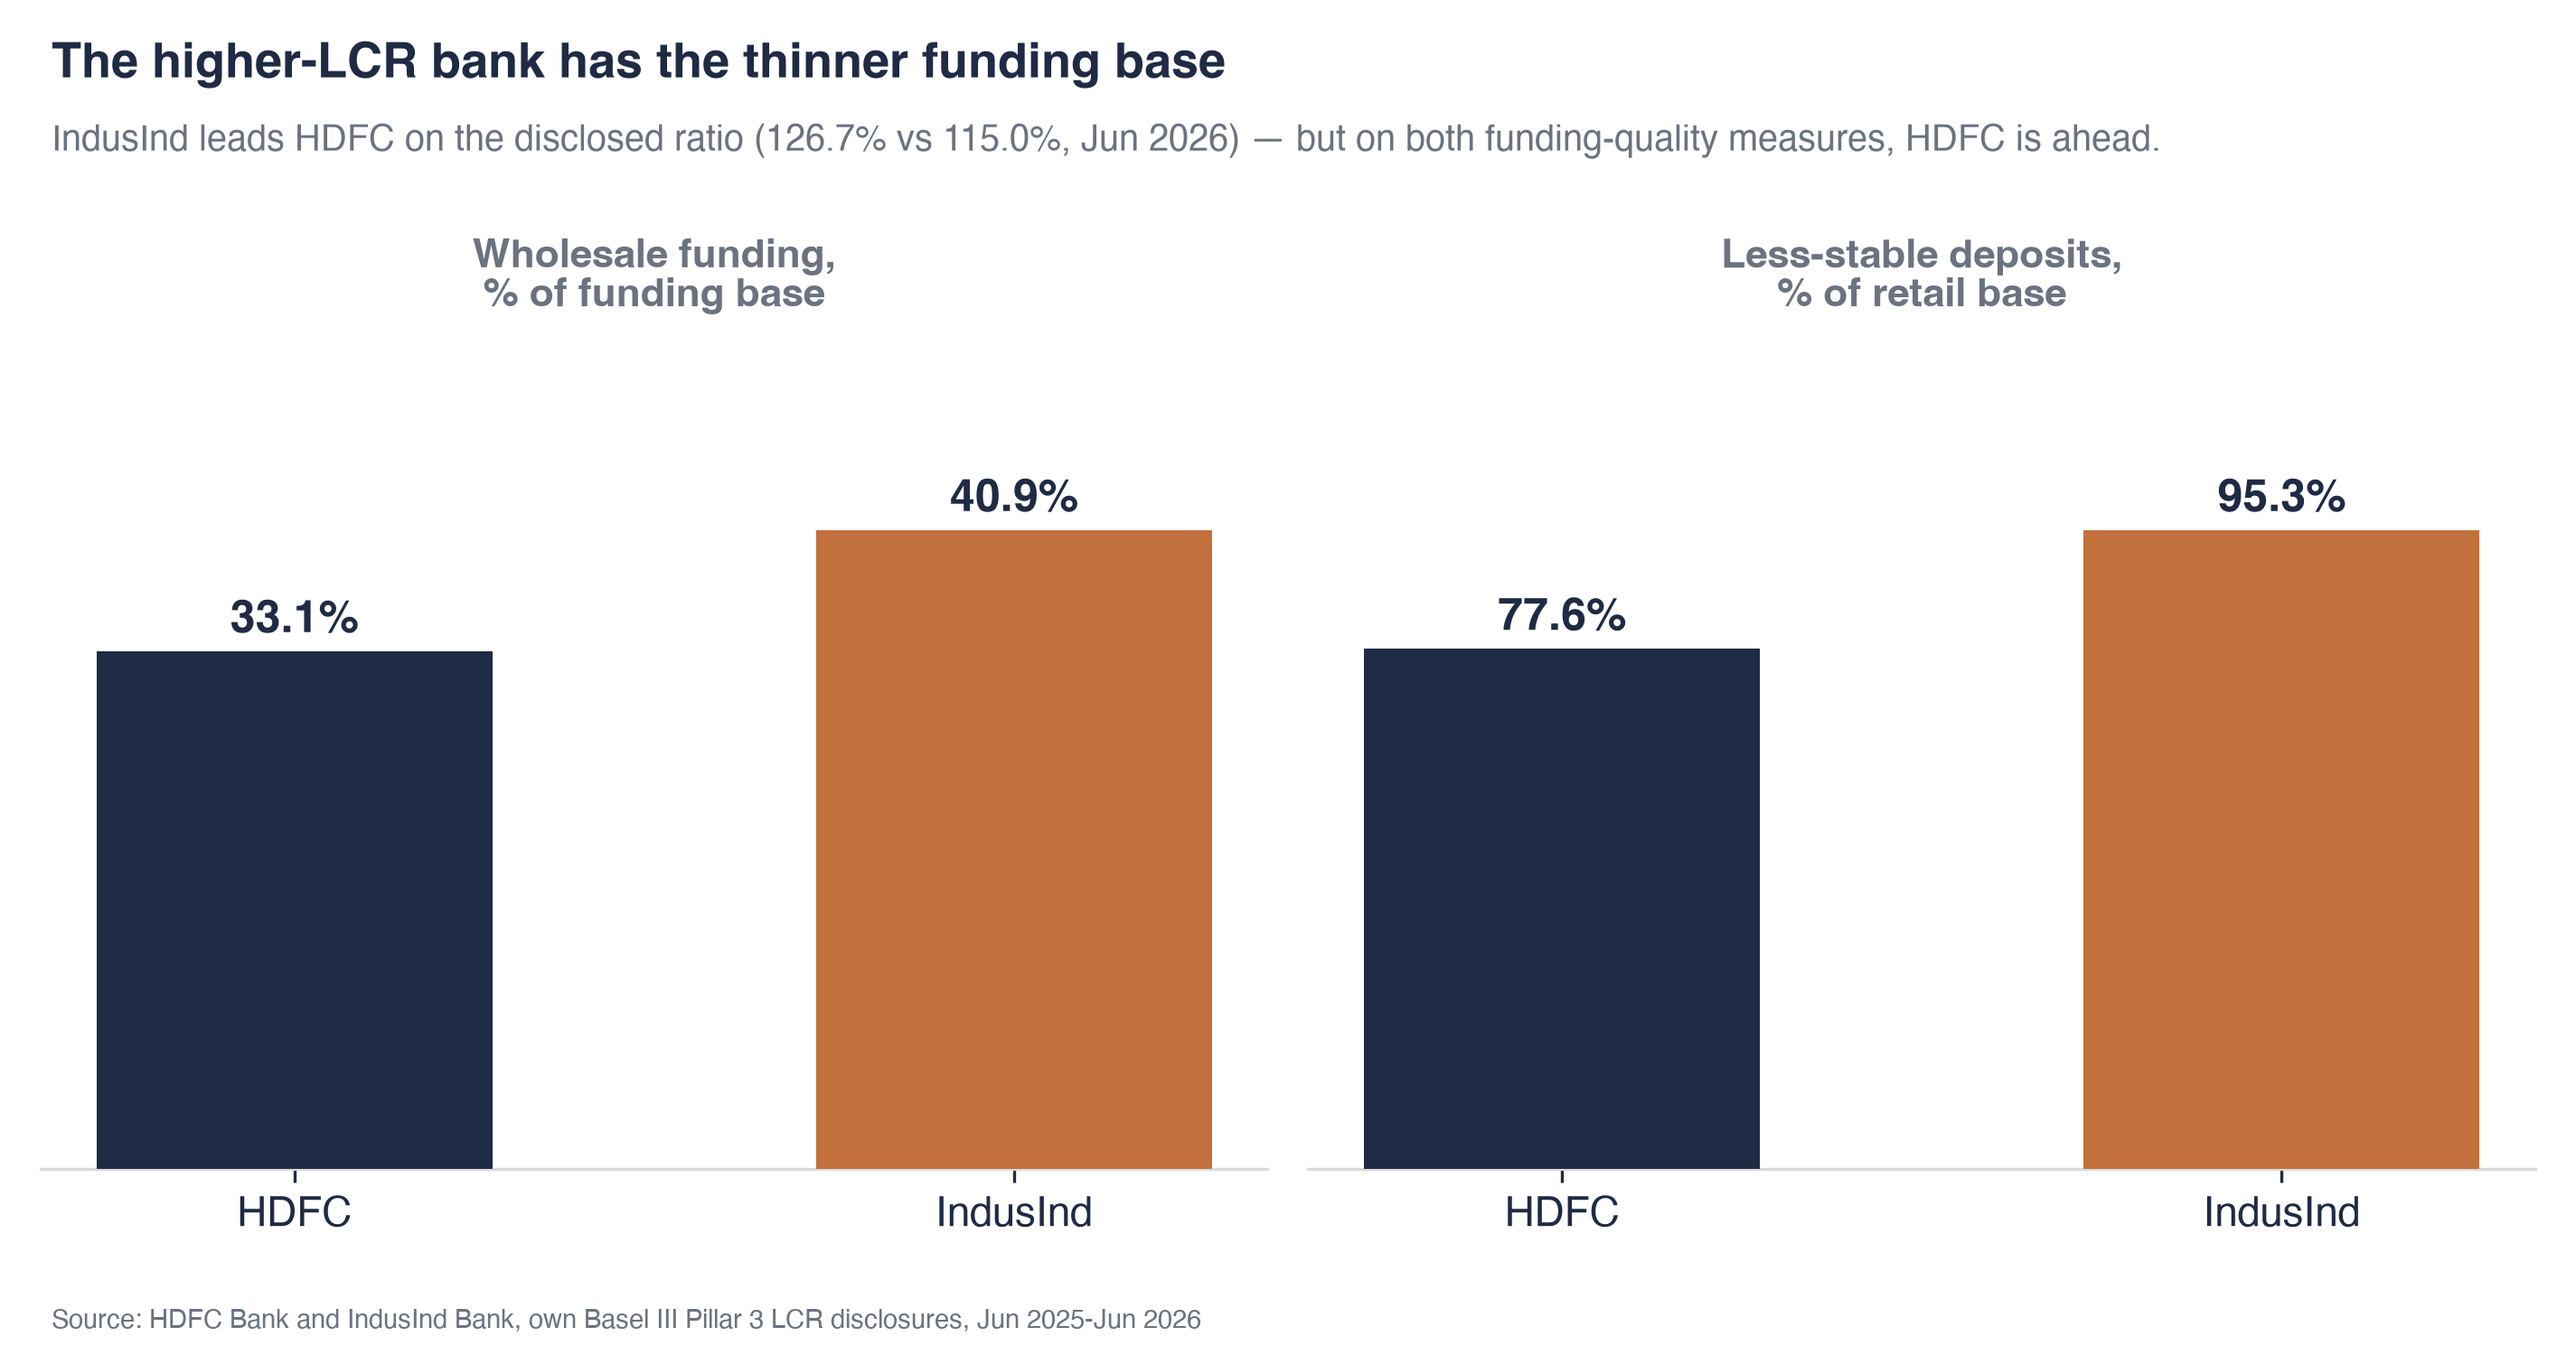
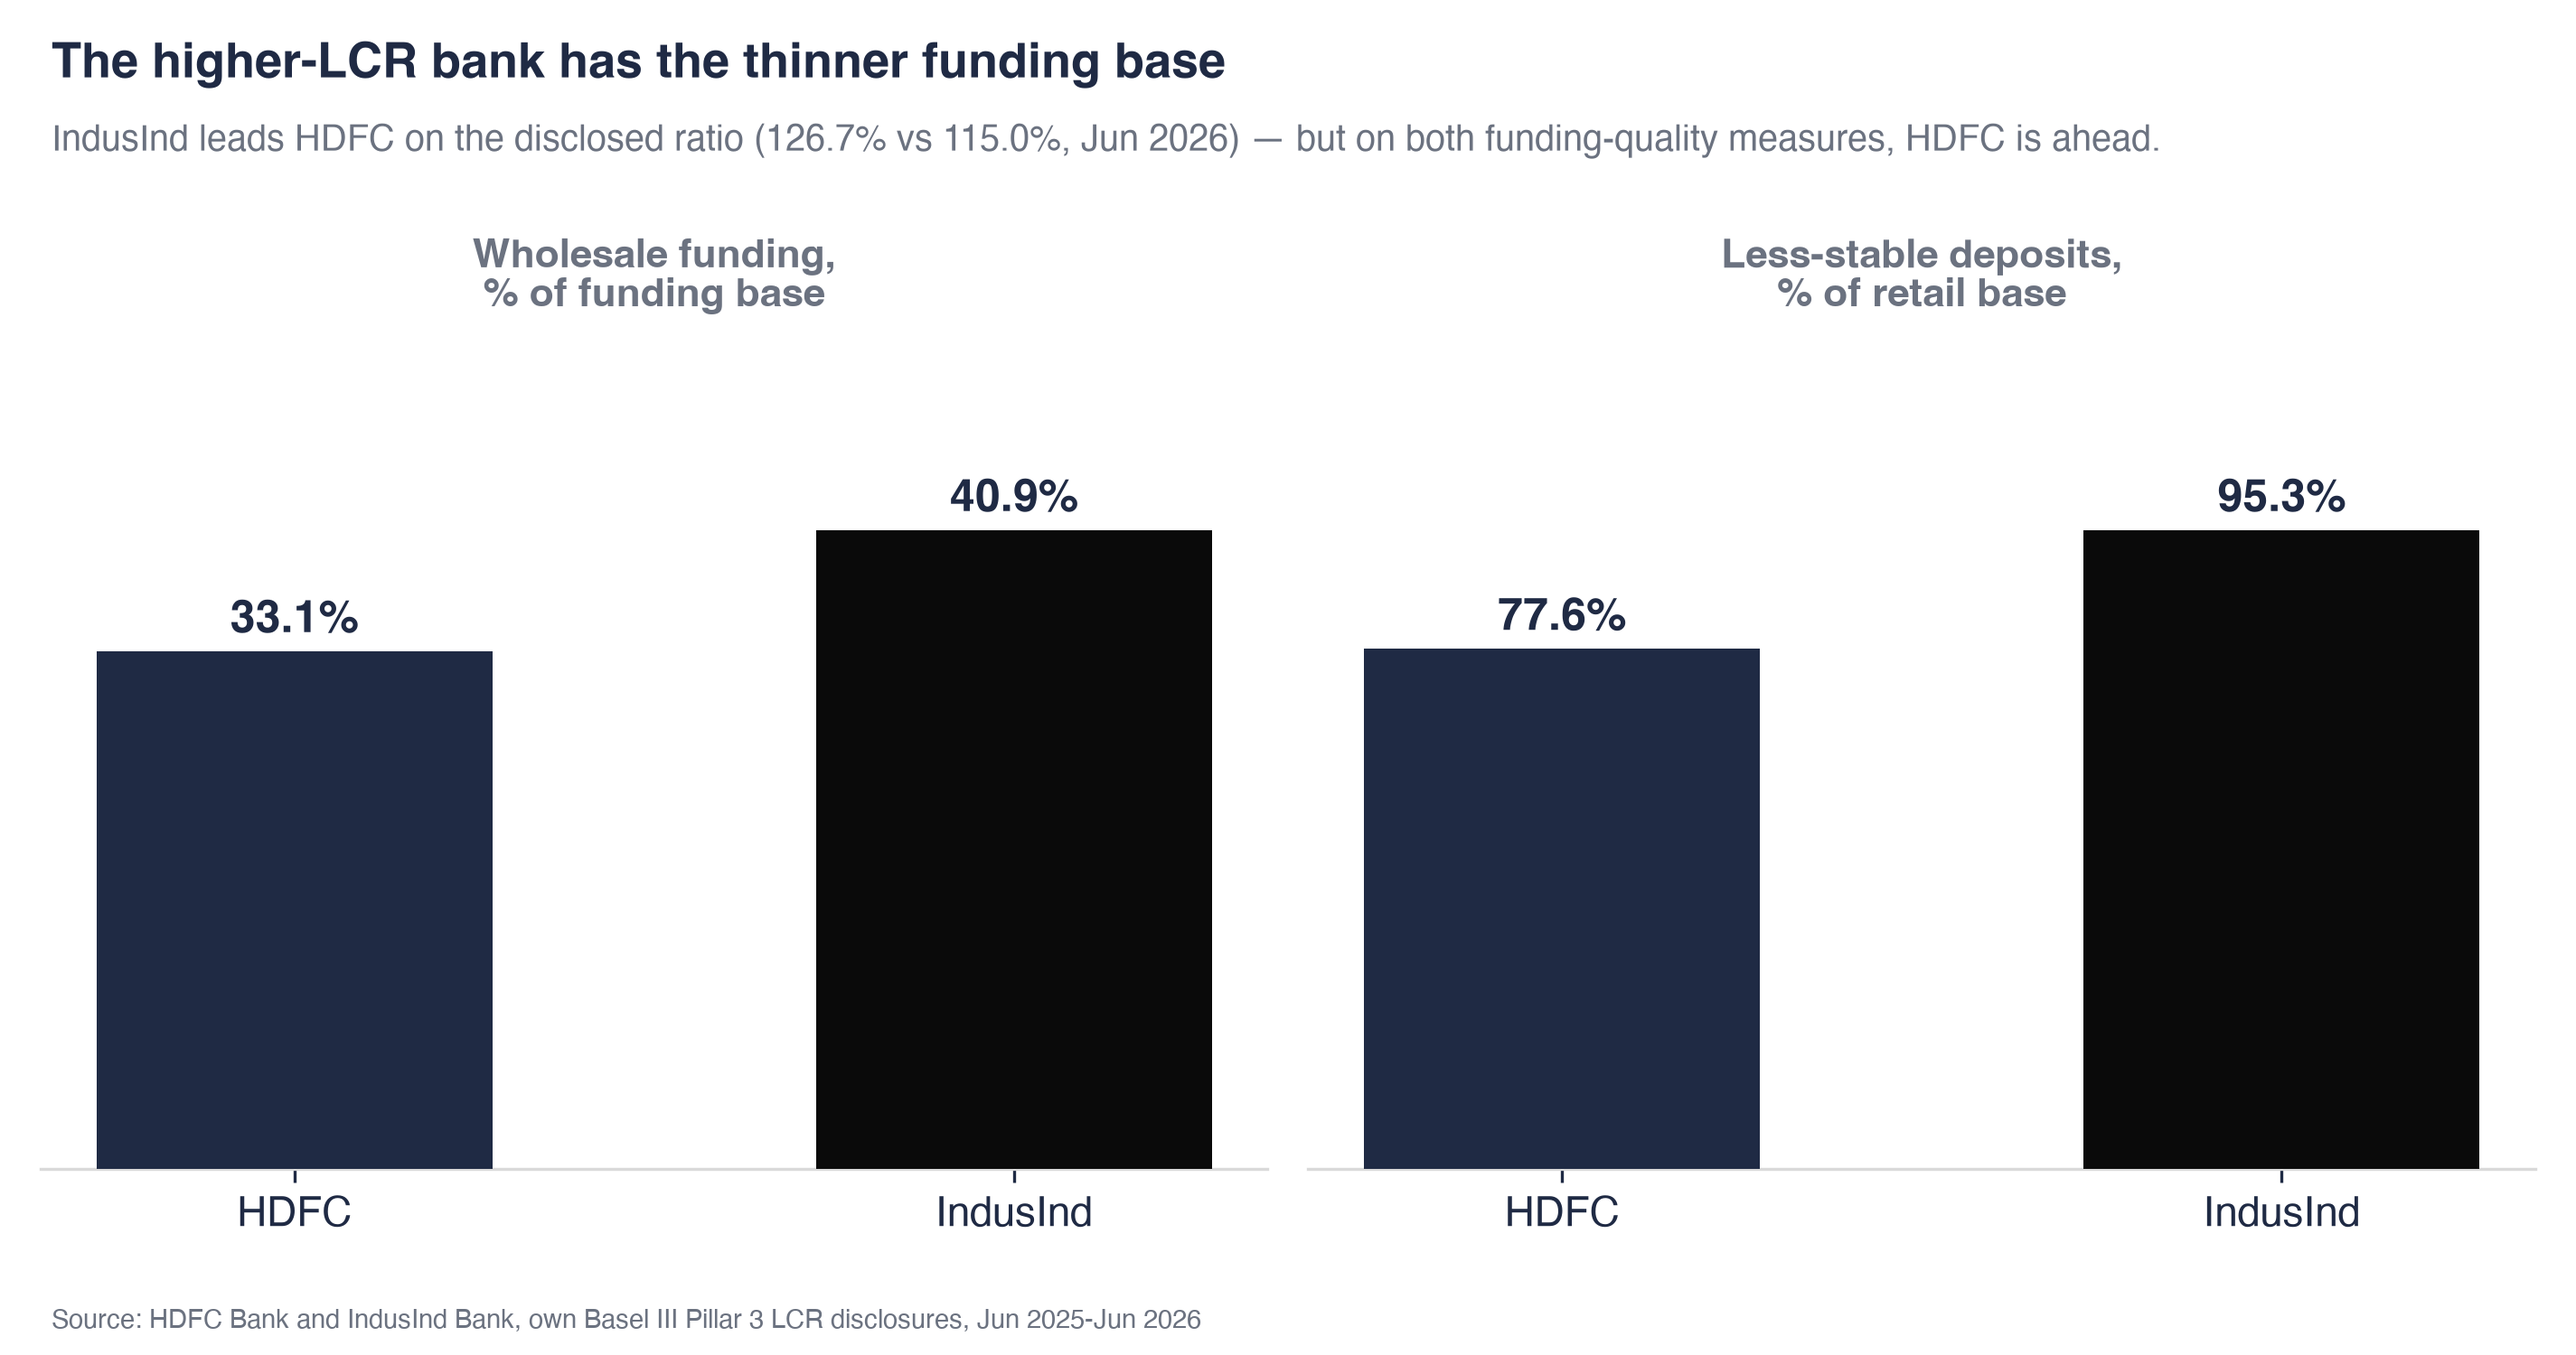
Trim duplicate PDF twins, restyle charts to black/navy, re-verify numbers
- Drop DATA_DICTIONARY.pdf and LIMITATIONS.pdf: these are reference docs
  meant to be browsed on GitHub alongside the code, matching the house
  convention already used elsewhere (only the memo and README get a
  PDF twin, not every markdown file)
- Recolor charts from navy/amber to navy/near-black, dropping the only
  non-monochrome accent in the project
- Ignore .vscode/ (local editor config, not a project deliverable)
- Independently re-derived every headline number (LCR range, trend,
  wholesale/less-stable shares, the row-4 secured-funding range, and the
  run-off-factor counterfactual in the memo's closing section) straight
  from the CSVs — all confirmed exact, no new errors found

Changed region(s): [[0.7807, 0.368, 0.9681, 0.8893], [0.3123, 0.368, 0.4684, 0.8893]]

diff --git a/src/build_pdf.py b/src/build_pdf.py
@@ -351,13 +351,13 @@ def render(md_path, pdf_path, title):
 
 
 def main():
+    # Only the memo and the README get a PDF twin — the reader-facing
+    # documents someone would open standalone. DATA_DICTIONARY.md and
+    # LIMITATIONS.md are reference material, meant to be browsed on GitHub
+    # alongside the code they document, not printed.
     REPORTS_DIR.mkdir(parents=True, exist_ok=True)
     render(REPORTS_DIR / "liquidity_risk_memo.md", REPORTS_DIR / "liquidity_risk_memo.pdf",
            "Bank LCR & Funding Concentration — Liquidity Risk Memo")
-    render(REPORTS_DIR / "DATA_DICTIONARY.md", REPORTS_DIR / "DATA_DICTIONARY.pdf",
-           "Bank LCR & Funding Concentration — Data Dictionary")
-    render(REPORTS_DIR / "LIMITATIONS.md", REPORTS_DIR / "LIMITATIONS.pdf",
-           "Bank LCR & Funding Concentration — Limitations & Assumptions")
     render(ROOT / "README.md", REPORTS_DIR / "README.pdf",
            "Bank LCR & Funding Concentration — Project Overview")
 

diff --git a/src/build_charts.py b/src/build_charts.py
@@ -37,7 +37,7 @@ NAVY = "#1F2A44"
 GREY = "#6B7280"
 LGREY = "#EEEEEE"
 HDFC = "#1F2A44"      # navy — larger, retail-anchored
-INDUSIND = "#C2703C"  # burnt amber — smaller, more wholesale-reliant
+INDUSIND = "#0A0A0A"  # near-black — smaller, more wholesale-reliant
 DPI = 300
 SRC = "Source: HDFC Bank and IndusInd Bank, own Basel III Pillar 3 LCR disclosures, Jun 2025-Jun 2026"
 

diff --git a/README.md b/README.md
@@ -57,9 +57,7 @@ deposit run-off factors that quarter (see the memo's last section).
 - **Memo:** [`reports/liquidity_risk_memo.md`](reports/liquidity_risk_memo.md)
   ([PDF](reports/liquidity_risk_memo.pdf))
 - **Data dictionary:** [`reports/DATA_DICTIONARY.md`](reports/DATA_DICTIONARY.md)
-  ([PDF](reports/DATA_DICTIONARY.pdf))
 - **Limitations:** [`reports/LIMITATIONS.md`](reports/LIMITATIONS.md)
-  ([PDF](reports/LIMITATIONS.pdf))
 
 ## Methodology
 
@@ -104,8 +102,8 @@ bank-lcr-funding-concentration/
 │   └── charts/
 ├── reports/
 │   ├── liquidity_risk_memo.md (+ .pdf)
-│   ├── DATA_DICTIONARY.md (+ .pdf)
-│   ├── LIMITATIONS.md (+ .pdf)
+│   ├── DATA_DICTIONARY.md
+│   ├── LIMITATIONS.md
 │   └── README.pdf
 └── README.md
 ```
